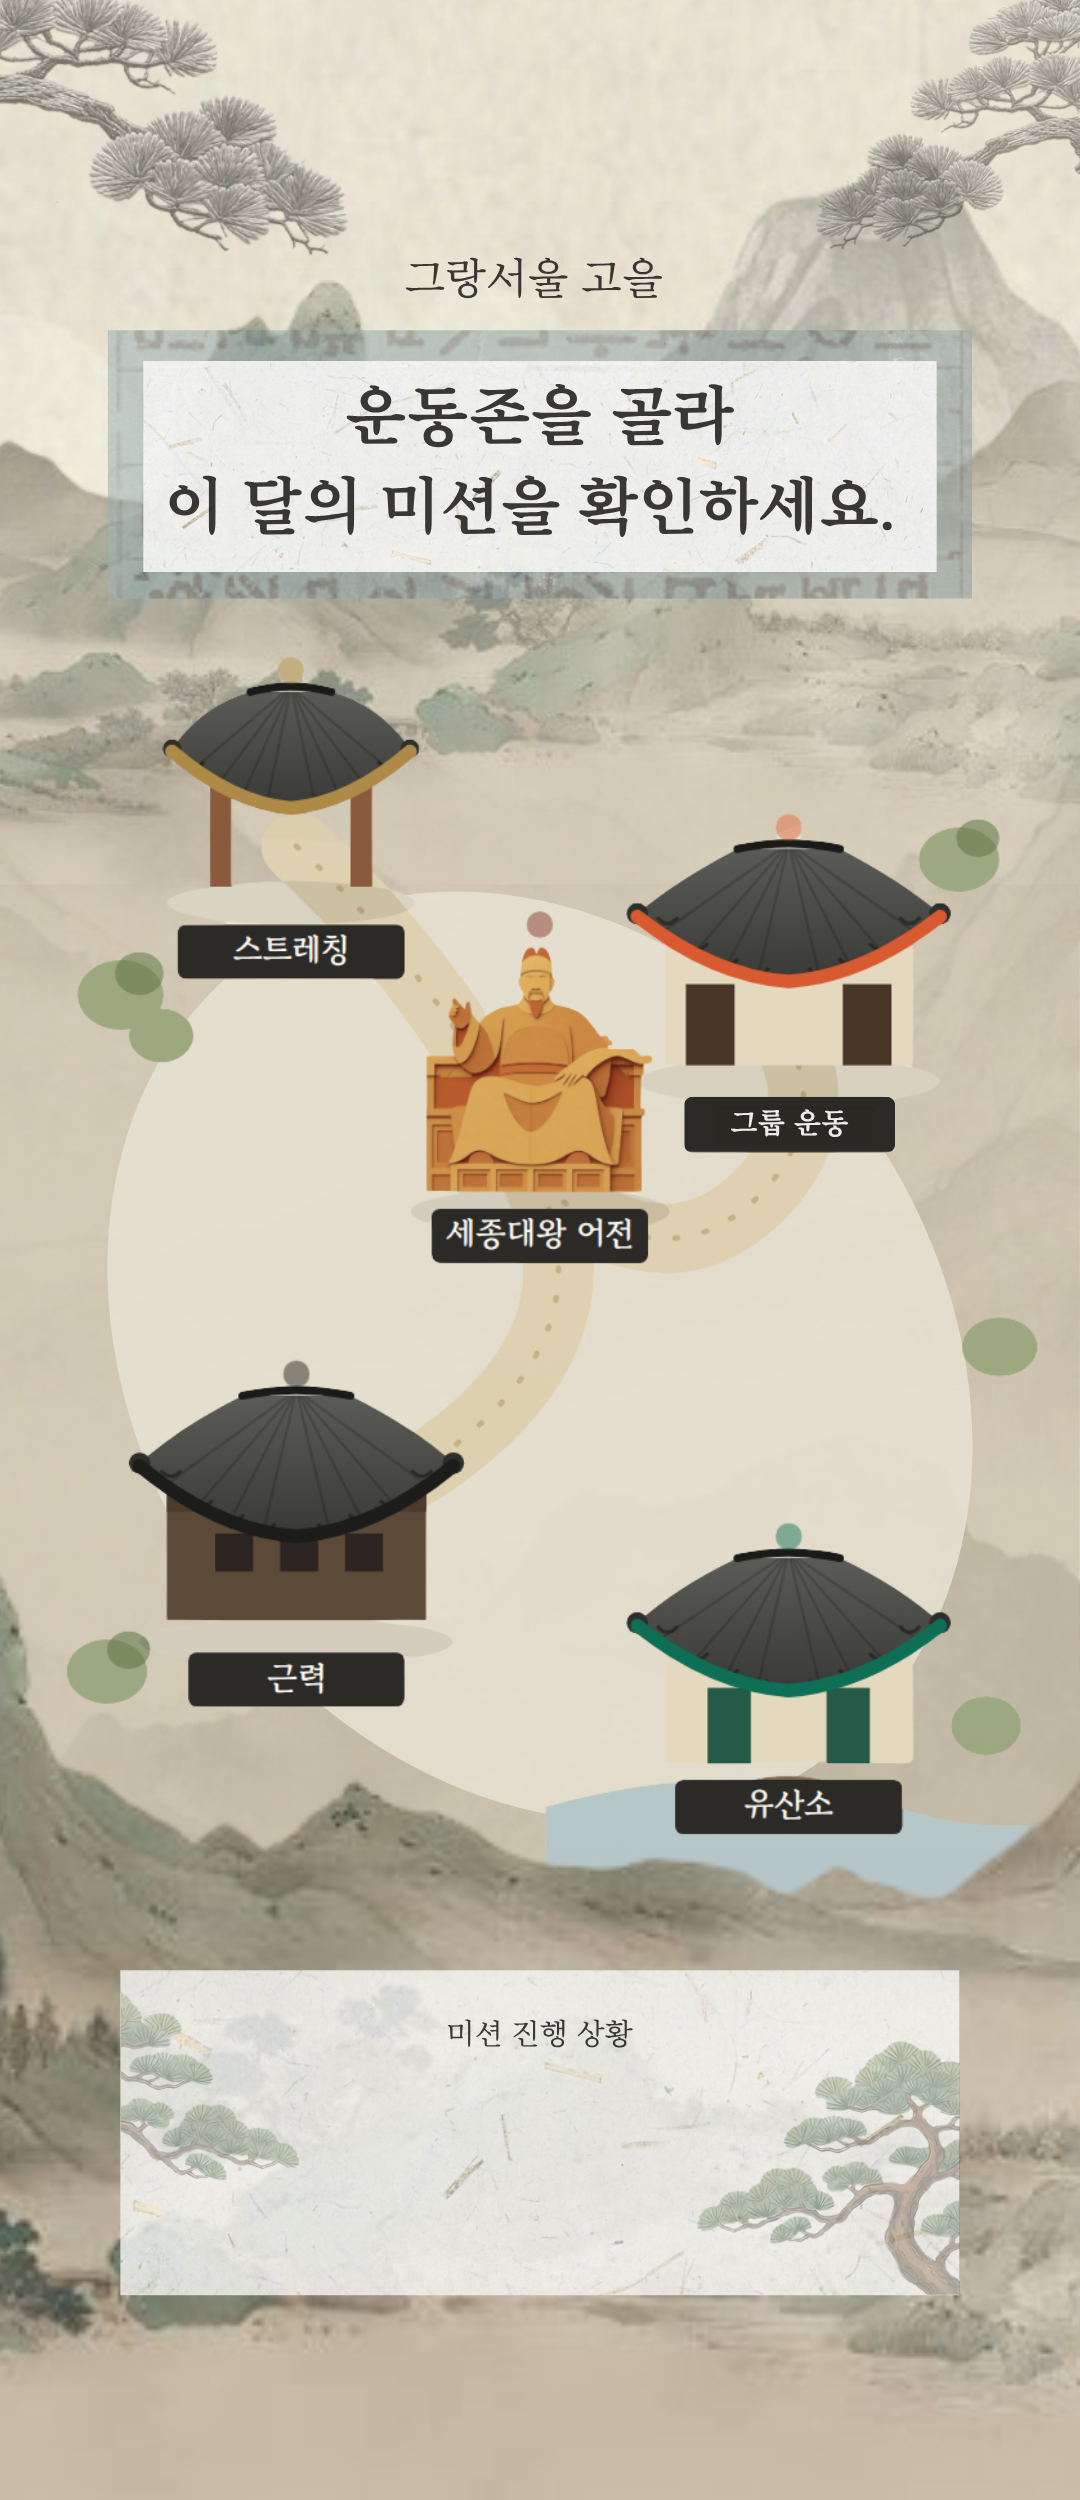
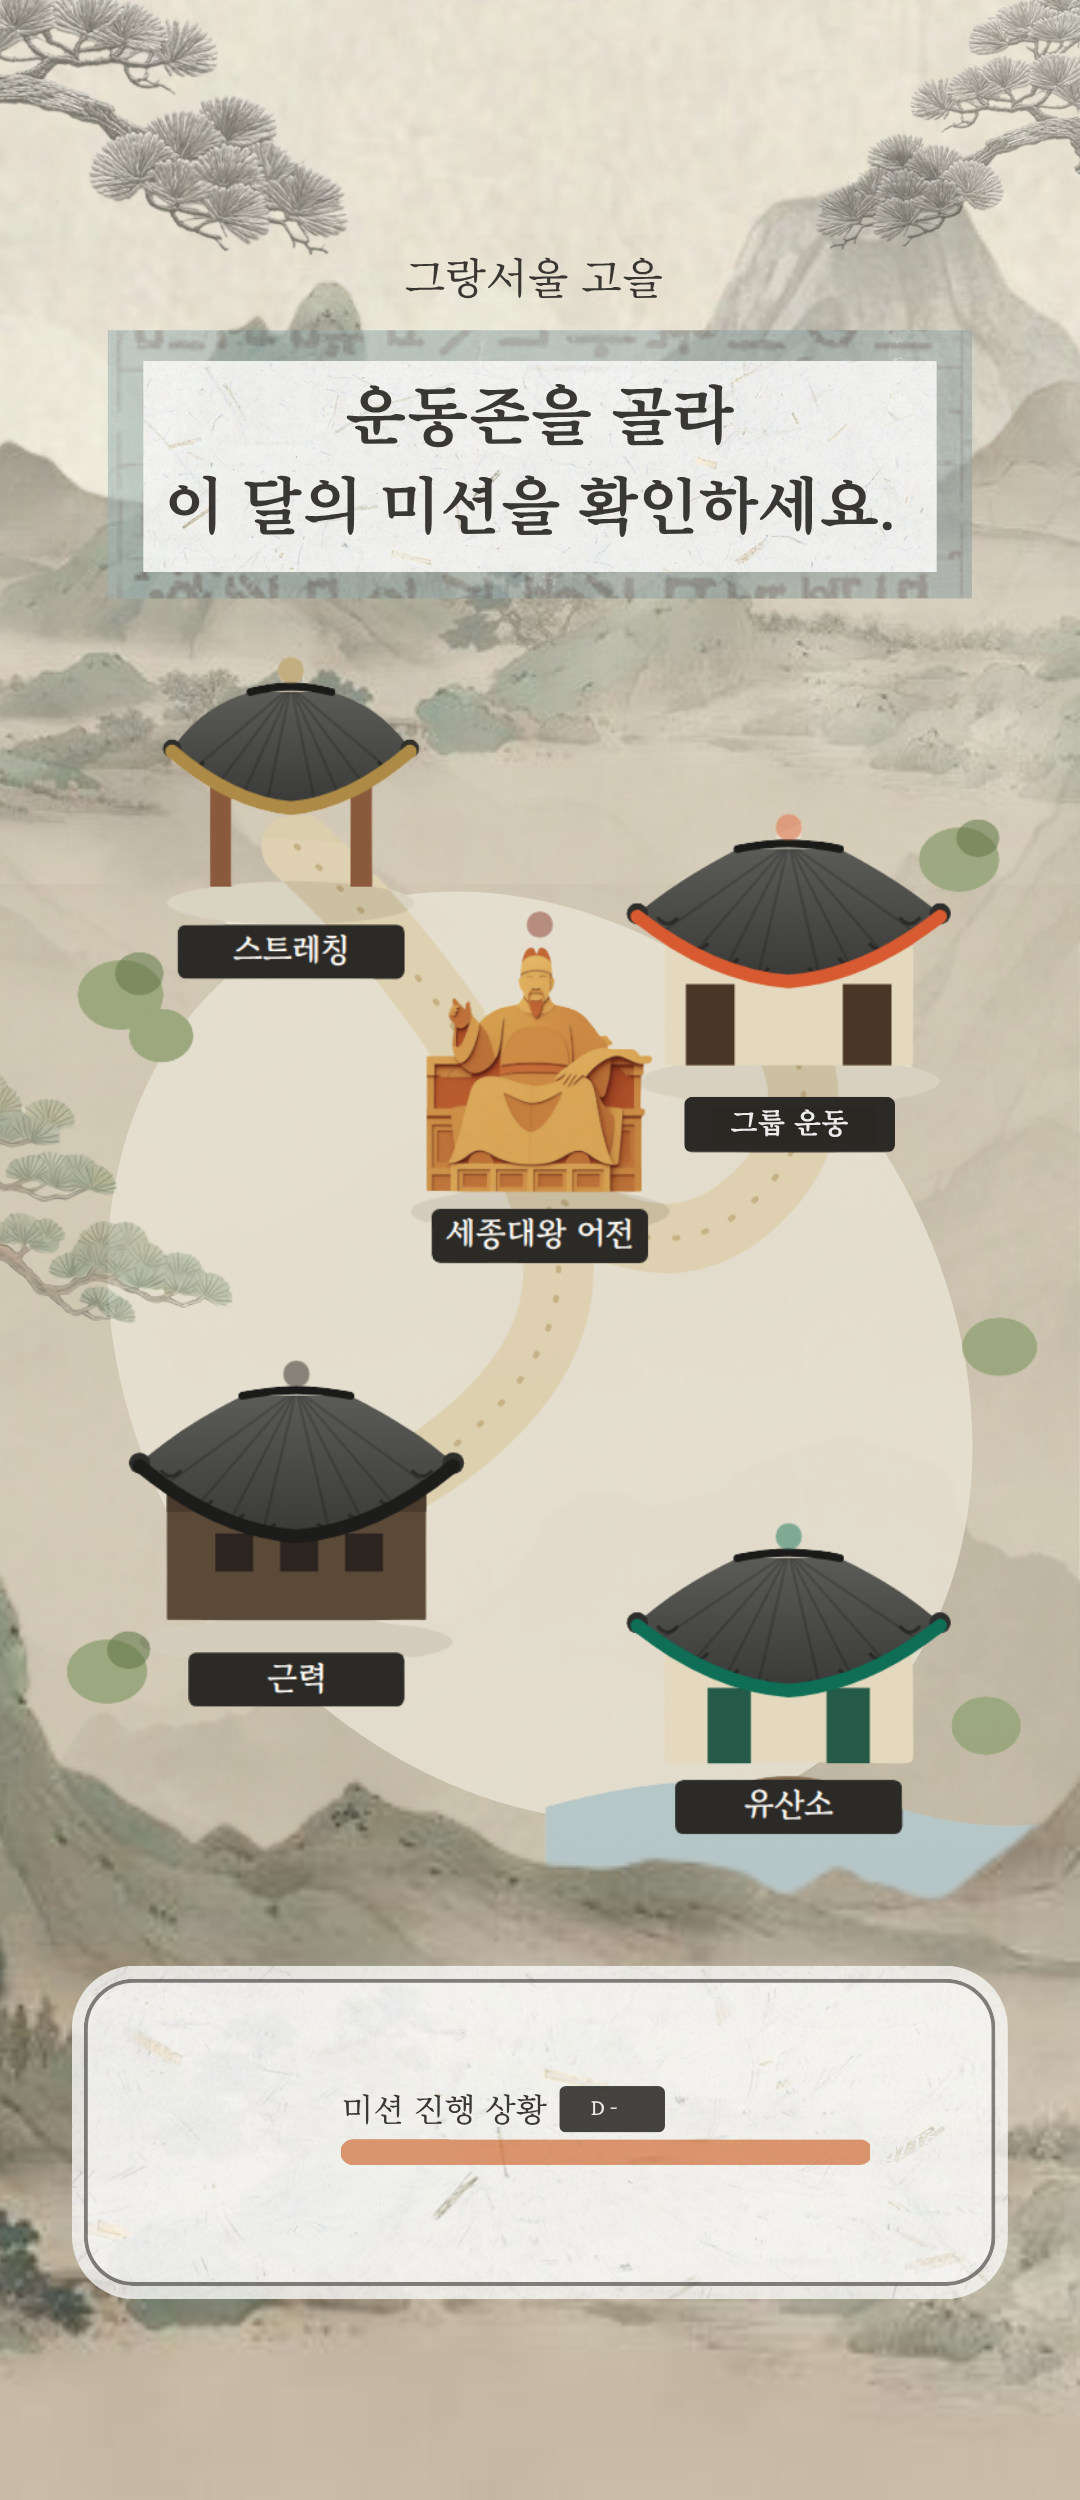
Use the new mission-panel background with a live D-day/gauge overlay
Swapped in the latest uploaded background (paper panel with a left
character slot, D- badge and orange gauge mockup baked in), cleaned
the mockup's fixed progress fill/count pixels back to their empty
state, and now overlay the character in the left slot plus a live
D-day number and orange progress gauge matching the baked style.

Changed region(s): [[0.0611, 0.78, 0.9472, 0.936], [0.0, 0.4368, 0.2139, 0.5304]]

diff --git a/demos/gym_map.html b/demos/gym_map.html
@@ -49,18 +49,10 @@ body{
 }
 .zone-hit:active{opacity:0.7;}
 
-/* ---------- Status overlay: sits inside the baked-in "미션 진행 상황" paper panel ---------- */
-.map-overlay{
-  position:absolute;
-  left:14%;top:81.5%;width:72%;height:10%;
-  display:flex;
-  align-items:center;
-  gap:6%;
-}
+/* ---------- Status overlay: sits inside the baked-in mission panel's empty slots ---------- */
 .char-block{
-  position:relative;
-  flex-shrink:0;
-  width:18%;
+  position:absolute;
+  left:8.1%;top:79.4%;width:21%;
   display:flex;
   justify-content:center;
 }
@@ -117,42 +109,34 @@ body{
 .char-mini .hat-group{opacity:0;transition:opacity .2s ease;}
 .char-mini .hat-group.show{opacity:1;}
 
-.status-block{
-  flex:1;
-  min-width:0;
-  display:flex;
-  align-items:center;
-  gap:4%;
-}
-.dday-badge{
-  flex-shrink:0;
-  background:var(--hanok-red);
-  color:#FFFFFF;
+.dday-num{
+  position:absolute;
+  left:57.6%;top:83.6%;width:6%;height:1.7%;
+  display:flex;align-items:center;
+  color:#F7F5F0;
   font-weight:800;
-  font-size:11.5px;
-  padding:4px 9px;
-  border-radius:4px;
+  font-size:11px;
   letter-spacing:0.3px;
 }
-.progress-wrap{flex:1;min-width:0;}
-.progress-label{
-  text-align:right;
-  font-size:10px;
-  font-weight:700;
-  color:var(--ink);
-  margin-bottom:4px;
-}
 .progress-track{
-  width:100%;height:6px;
-  background:rgba(28,28,26,0.18);
-  border-radius:3px;
+  position:absolute;
+  left:31.5%;top:85.5%;width:49.3%;height:1.05%;
+  border-radius:20px;
   overflow:hidden;
 }
 .progress-fill{
-  height:100%;
-  background:var(--teal);
-  border-radius:3px;
+  height:100%;width:0%;
+  background:#CD6226;
+  border-radius:20px;
   transition:width .4s ease;
+}
+.progress-count{
+  position:absolute;
+  left:80.5%;top:85.3%;width:8%;height:1.5%;
+  display:flex;align-items:center;
+  color:#3A3835;
+  font-weight:700;
+  font-size:13px;
 }
 
 /* ---------- Mission list screen ---------- */
@@ -211,10 +195,9 @@ body{
       <a class="zone-hit" data-zone="cardio" style="left:56%;top:60%;width:33%;height:14%;"></a>
       <a href="health_challenge.html#select" class="zone-hit" style="left:36%;top:35%;width:27%;height:16%;"></a>
 
-      <div class="map-overlay">
-        <div class="char-block">
-          <div class="speech-bubble" id="speechBubble">오늘도 화이팅! 💪</div>
-          <div class="char-mini" id="charMini">
+      <div class="char-block">
+        <div class="speech-bubble" id="speechBubble">오늘도 화이팅! 💪</div>
+        <div class="char-mini" id="charMini">
           <svg id="charSvgMini" viewBox="0 0 240 300" xmlns="http://www.w3.org/2000/svg">
             <defs>
               <radialGradient id="skinGradMini" cx="38%" cy="30%" r="75%">
@@ -344,16 +327,11 @@ body{
             </g>
           </svg>
         </div>
-        </div>
-
-        <div class="status-block">
-          <div class="dday-badge" id="ddayBadge">D-13</div>
-          <div class="progress-wrap">
-            <div class="progress-label"><span id="progressCount">0/12</span></div>
-            <div class="progress-track"><div class="progress-fill" id="progressFill" style="width:0%"></div></div>
-          </div>
-        </div>
       </div>
+
+      <div class="dday-num" id="ddayBadge">13</div>
+      <div class="progress-track"><div class="progress-fill" id="progressFill" style="width:0%"></div></div>
+      <div class="progress-count" id="progressCount">0/12</div>
     </div>
   </section>
 
@@ -450,7 +428,7 @@ const CHALLENGE_END = new Date('2026-10-31T23:59:59+09:00');
 function updateDday(){
   const now = new Date();
   const diffDays = Math.ceil((CHALLENGE_END - now) / 86400000);
-  document.getElementById('ddayBadge').textContent = diffDays > 0 ? `D-${diffDays}` : 'D-DAY';
+  document.getElementById('ddayBadge').textContent = diffDays > 0 ? `${diffDays}` : 'DAY';
 }
 
 /* ---------- Character (restored from health_challenge.html's choice) ---------- */
